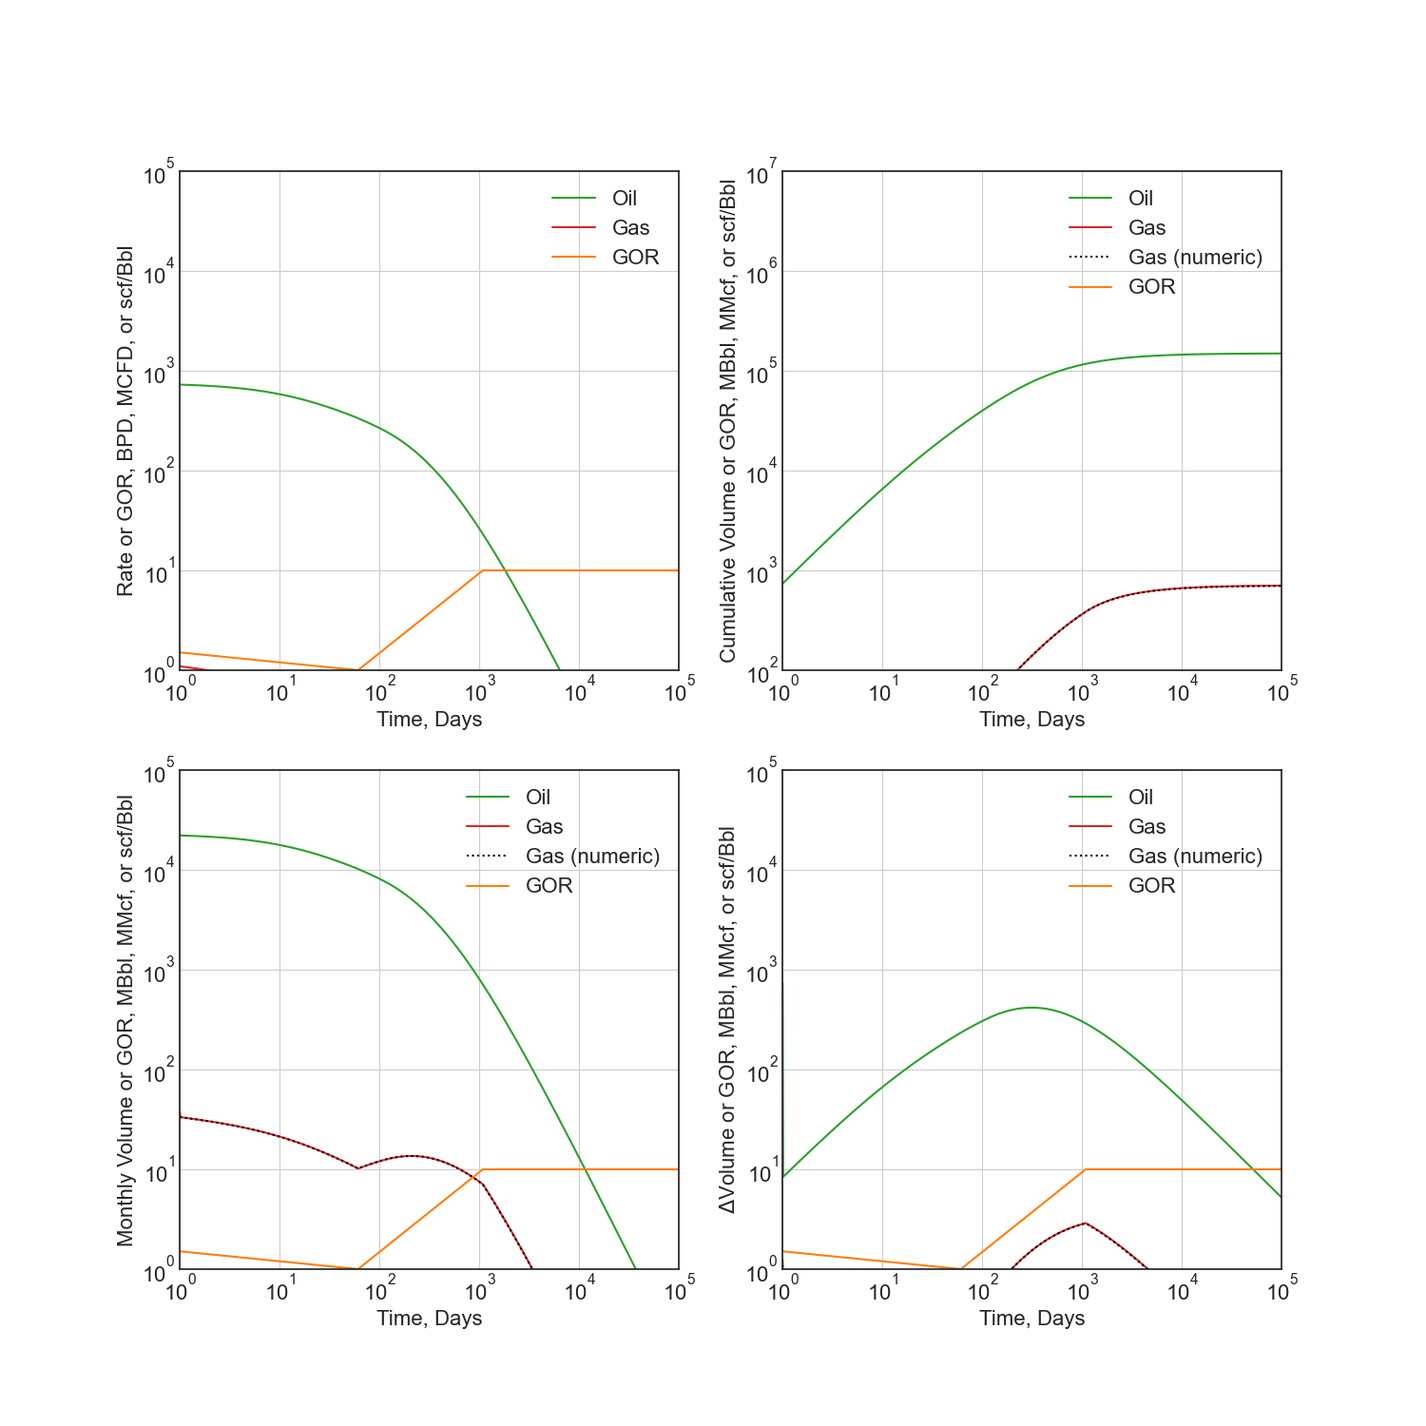
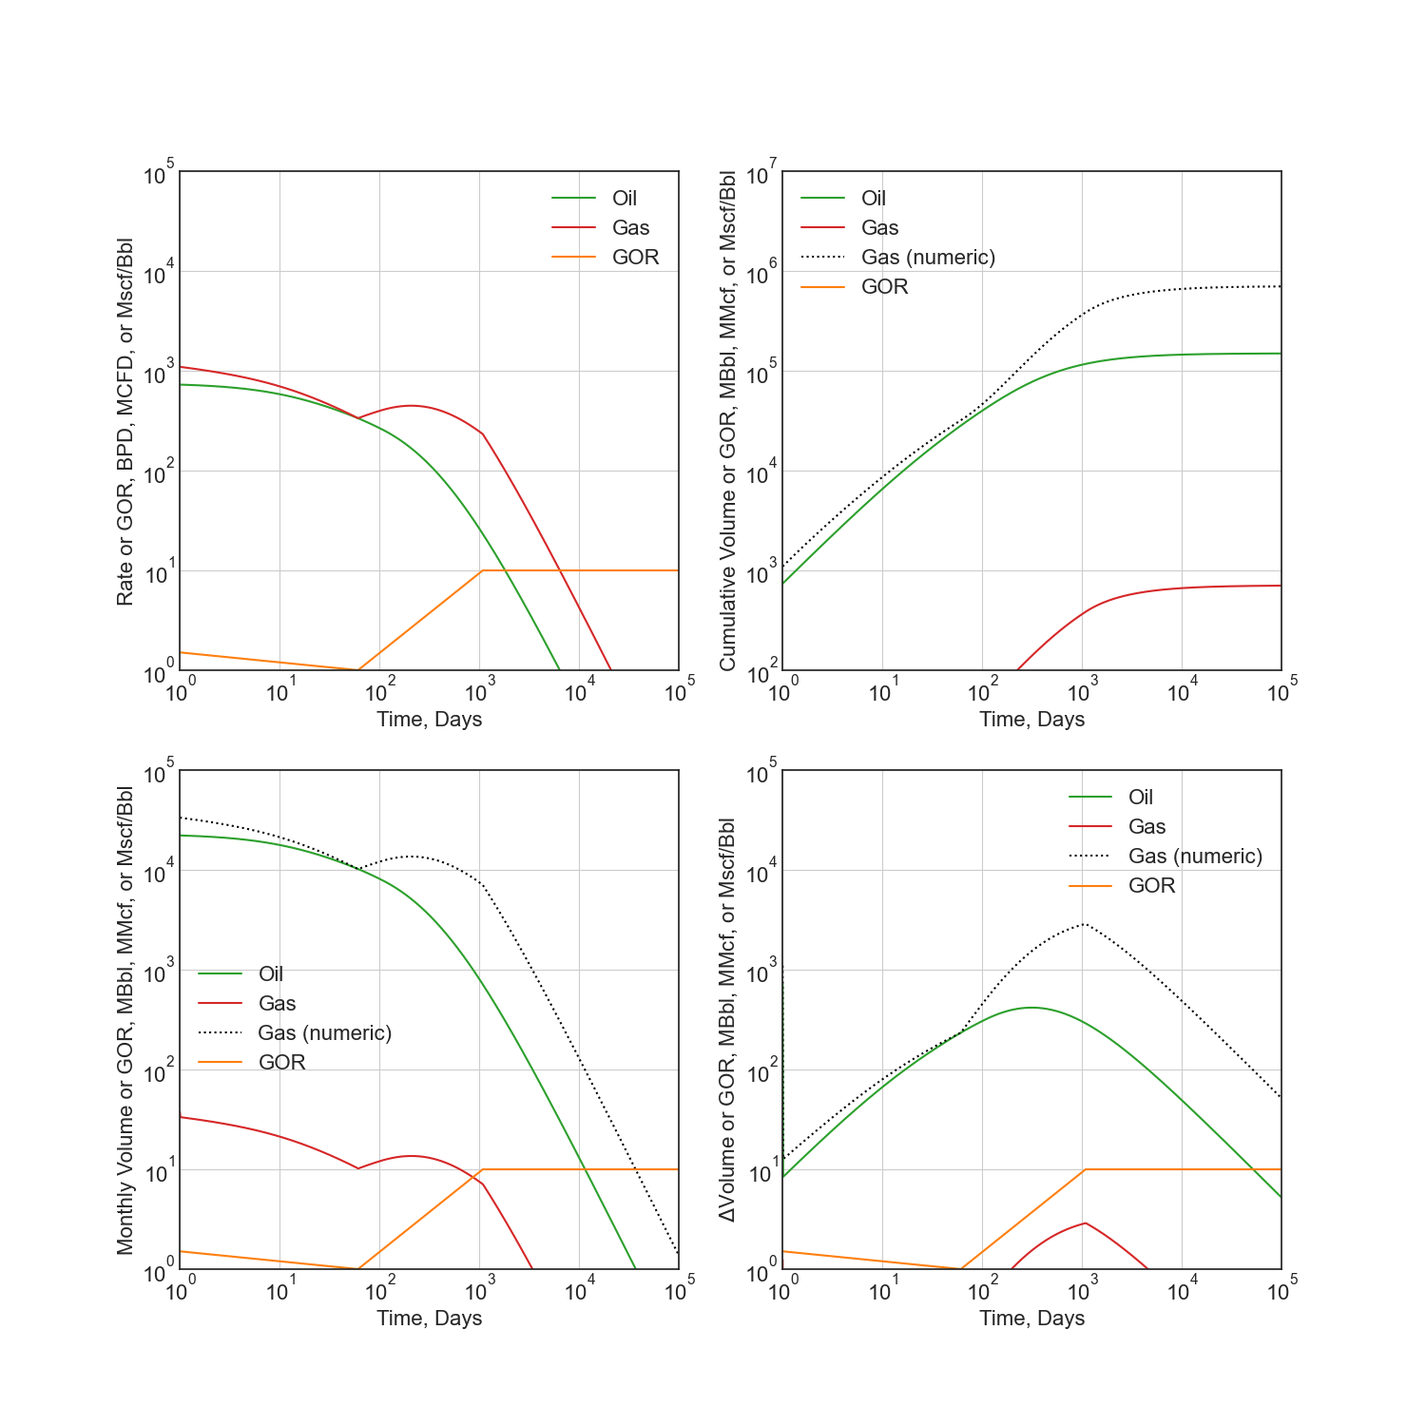
docs: fix the examples figure, the shift caveat, and stale plan references
Consistency-audit findings from the subagent pass.

docs/examples.rst and test/doc_examples.py still divided the secondary rate by
1000 after the c rescale to Mscf/Bbl, so the plotted quantity was MMscf/d under
an "MCFD" label and only 56 of 1001 points cleared the panel's y-floor -- the
Gas curve was missing from the published figure entirely. Removed the divisor
(864 of 1001 points now visible) and relabelled GOR as Mscf/Bbl on all four
panels. The /1000 on the volume panels is correct and stays: those are Mscf
under an MMcf label.

The design spec claimed its measured shift ratios "converge on
(t_1/(t_1+dt))**m0 = 0.911". The ratios themselves reproduce exactly
(0.95939, 0.92764, 0.92923), but they are shifted(t) vs original(t - dt) -- the
same physical instant -- and approach ~0.929. The 0.911 figure is the asymptote
of a different comparison, shifted(t) vs original(t), which is what someone
plotting both curves on one axis sees. Both are now stated separately. A
subagent reported the ratios themselves as unreproducible; they measured the
second comparison without saying so.

README's shift caveat gave (t0/(t0+dt))**m as the late-time change, which is
exact for PLYield but holds only within the first segment of a
GeneralizedPLYield, and not at all past a c override -- where the shift can move
late-time yield either way.

Also: the Phase 1 plan named GeneralizedPLYield._segment_from_tuple in six
[…]

diff --git a/test/doc_examples.py b/test/doc_examples.py
@@ -284,14 +284,14 @@ ax4 = fig.add_subplot(224)
 
 # Rate vs Time
 q = thm.rate(t)
-g = thm.secondary.rate(t) / 1000.0
+g = thm.secondary.rate(t)
 y = thm.secondary.gor(t)
 
 ax1.plot(t, q, c='C2', label='Oil')
 ax1.plot(t, g, c='C3', label='Gas')
 ax1.plot(t, y, c='C1', label='GOR')
 ax1.set(xscale='log', yscale='log', xlim=(1e0, 1e5), ylim=(1e0, 1e5))
-ax1.set(ylabel='Rate or GOR, BPD, MCFD, or scf/Bbl', xlabel='Time, Days')
+ax1.set(ylabel='Rate or GOR, BPD, MCFD, or Mscf/Bbl', xlabel='Time, Days')
 
 
 # Cumulative Volume vs Time
@@ -305,7 +305,7 @@ ax2.plot(t, _g_N, c='k', ls=':', label='Gas (numeric)')
 ax2.plot(t, y, c='C1', label='GOR')
 ax2.set(xscale='log', yscale='log', xlim=(1e0, 1e5), ylim=(1e2, 1e7))
 ax2.set(ylabel='Rate, Dimensionless', xlabel='Time, Days')
-ax2.set(ylabel='Cumulative Volume or GOR, MBbl, MMcf, or scf/Bbl', xlabel='Time, Days')
+ax2.set(ylabel='Cumulative Volume or GOR, MBbl, MMcf, or Mscf/Bbl', xlabel='Time, Days')
 
 
 # Time vs Monthly Volume
@@ -319,7 +319,7 @@ ax3.plot(t, g_MN, c='C3', label='Gas')
 ax3.plot(t, _g_MN, c='k', ls=':', label='Gas (numeric)')
 ax3.plot(t, y, c='C1', label='GOR')
 ax3.set(xscale='log', yscale='log', xlim=(1e0, 1e5), ylim=(1e0, 1e5))
-ax3.set(ylabel='Monthly Volume or GOR, MBbl, MMcf, or scf/Bbl', xlabel='Time, Days')
+ax3.set(ylabel='Monthly Volume or GOR, MBbl, MMcf, or Mscf/Bbl', xlabel='Time, Days')
 
 
 # Time vs Interval Volume
@@ -332,7 +332,7 @@ ax4.plot(t, g_IN, c='C3', label='Gas')
 ax4.plot(t, _g_IN, c='k', ls=':', label='Gas (numeric)')
 ax4.plot(t, y, c='C1', label='GOR')
 ax4.set(xscale='log', yscale='log', xlim=(1e0, 1e5), ylim=(1e0, 1e5))
-ax4.set(ylabel='$\Delta$Volume or GOR, MBbl, MMcf, or scf/Bbl', xlabel='Time, Days')
+ax4.set(ylabel='$\Delta$Volume or GOR, MBbl, MMcf, or Mscf/Bbl', xlabel='Time, Days')
 
 for ax in [ax1, ax2, ax3, ax4]:
     ax.set_aspect(1)
@@ -355,7 +355,7 @@ ax4 = fig.add_subplot(224)
 # D-parameter vs Time
 q_D = thm.D(t)
 g_D = thm.secondary.D(t)
-_g_D = -np.gradient(np.log(thm.secondary.rate(t) / 1000.0), t)
+_g_D = -np.gradient(np.log(thm.secondary.rate(t)), t)
 
 ax1.plot(t, q_D, c='C2', label='Oil')
 ax1.plot(t, g_D, c='C3', label='Gas')

diff --git a/test/test_dca.py b/test/test_dca.py
@@ -573,7 +573,11 @@ def test_terminal_exceeds() -> None:
     m=st.floats(-1.0, 1.0),
     t0=st.floats(1e-10, 365.25),
 )
-@settings(deadline=None)  # type: ignore
+# The two assume() calls below reject most draws, so hypothesis trips
+# filter_too_much on roughly 2 of 3 runs; suppress it as test_THM_terminal_exp
+# already does. deadline=None for the same reason as test_THM.
+@settings(deadline=None,
+          suppress_health_check=[hypothesis.HealthCheck.filter_too_much])  # type: ignore
 def test_yield(qi: float, Di: float, bf: float, telf: float, bterm: float, tterm: float,
                c: float, m0: float, m: float, t0: float) -> None:
     assume(tterm * dca.DAYS_PER_YEAR > telf)

diff --git a/docs/plans/2026-07-30-plyield-segment-plan.md b/docs/plans/2026-07-30-plyield-segment-plan.md
@@ -10,6 +10,25 @@
 
 **Design spec:** `docs/plans/2026-07-30-generalized-segments-design.md` — Phase 1 of three.
 
+> **Status: implemented** on `feat/generalized-plyield`. The unchecked `- [ ]` boxes below are
+> the historical build script, not outstanding work. Delivered differently from the plan in
+> four places, all after post-implementation review:
+>
+> 1. The tuple builder is `PLYieldSegment.from_tuple` (a public classmethod on the segment
+>    type), not `GeneralizedPLYield._segment_from_tuple`. `/code-refactor` moved it so the
+>    target class owns its own construction, and it is the shape `HyperbolicSegment` will
+>    follow.
+> 2. `shift` is declared abstract on `MultisegmentPLYield`, so re-anchoring is a contract of
+>    every multisegment yield model rather than two classes sharing a method name. It also
+>    calls `AssociatedPhase._adopt_attachment`, without which `dc.replace` silently rebinds
+>    the copy to a `NullPrimaryPhase` and `rate`/`cum` return `0.0`.
+> 3. The `nan` for `t < 0` is applied in `_mfn` and `_Nfn` as well as `_yieldfn`. Without
+>    those two, `cum` returned `0.0` and `D`/`beta`/`b` returned definite values on a domain
+>    where the model is undefined.
+> 4. `validate_params` defaults are tuples, not lists — a list default makes a frozen
+>    dataclass unhashable — and the `segments` `naive_gen` emits `(n, 2)` `[t, m]` rather than
+>    `(n, 3)`, because a generated `c` on row 0 is rejected outright.
+
 ## Global Constraints
 
 - Max line length 100 (`ruff`). Max complexity 20.
@@ -29,7 +48,7 @@
 
 | File | Change |
 |---|---|
-| `petbox/dca/associated.py` | Add `PLYieldSegment`; rewrite `GeneralizedPLYield._segment_arrays`, `_validate`, `_segments`, `get_param_descs`; add `from_segments` + `_segment_from_tuple` |
+| `petbox/dca/associated.py` | Add `PLYieldSegment`; rewrite `GeneralizedPLYield._segment_arrays`, `_validate`, `_segments`, `get_param_descs`; add `from_segments` + `from_tuple` |
 | `petbox/dca/__init__.py` | Export `PLYieldSegment` |
 | `test/test_dca.py` | Migrate every `GeneralizedPLYield` test to the new API; add builder, override, and inheritance tests |
 | `test/test_perf.py` | Migrate the one `GeneralizedPLYield` construction |
@@ -53,7 +72,7 @@ and the negative-`t` `nan`, and Task 4 documents all of it.
   exported as `dca.PLYieldSegment`. Optional fields are **keyword-only**.
 - Produces `GeneralizedPLYield.from_segments(c, m0, segments, min=None, max=None)` accepting
   `(t, m)` and `(t, c, m)` tuples, and the private
-  `GeneralizedPLYield._segment_from_tuple(spec) -> PLYieldSegment`.
+  `PLYieldSegment.from_tuple(spec) -> PLYieldSegment`.
 - Changes `GeneralizedPLYield._segment_arrays()` from a 2-tuple to a 3-tuple return:
   `(breakpoint_times, slopes, overrides)`, where `overrides` holds `nan` for absent.
 - Phase 2 (`GeneralizedHyperbolic`) mirrors this protocol but shares no code with it.
@@ -246,7 +265,7 @@ Then replace `_segment_arrays`, `_validate` and the head of `_segments`:
 
 ```python
     @staticmethod
-    def _segment_from_tuple(spec: Sequence[Optional[float]]) -> PLYieldSegment:
+    def from_tuple(spec: Sequence[Optional[float]]) -> PLYieldSegment:
         """
         Normalize one loose tuple. Arity selects the meaning: ``(t, m)`` inherits the
         yield value, ``(t, c, m)`` sets it. An explicit ``None`` inherits exactly as a
@@ -271,7 +290,7 @@ Then replace `_segment_arrays`, `_validate` and the head of `_segments`:
         """
         Construct from plain tuples instead of :class:`PLYieldSegment` instances.
 
-        Each entry is ``(t, m)`` or ``(t, c, m)``; see :meth:`_segment_from_tuple`. The
+        Each entry is ``(t, m)`` or ``(t, c, m)``; see :meth:`from_tuple`. The
         constructor itself accepts only :class:`PLYieldSegment`, which keeps the field
         type free of unions -- this is the loose-tuple entry point.
 
@@ -296,7 +315,7 @@ Then replace `_segment_arrays`, `_validate` and the head of `_segments`:
         -------
             yield model: :class:`GeneralizedPLYield`
         """
-        return cls(c, m0, tuple(cls._segment_from_tuple(s) for s in segments), min, max)
+        return cls(c, m0, tuple(PLYieldSegment.from_tuple(spec) for spec in segments), min, max)
 
     def _segment_arrays(self) -> Tuple[NDFloat, NDFloat, NDFloat]:
         """
@@ -990,6 +1009,6 @@ says why transcribing them unchecked is unsafe.
 definition (Step 4) and is unpacked as three values at both call sites, `_validate`
 (discarding the third as `_`) and `_segments`. `PLYieldSegment` is constructed with
 keyword arguments everywhere, including in the migrated tests. `from_segments`' `segments`
-parameter is `Iterable[Sequence[Optional[float]]]`, matching what `_segment_from_tuple`
+parameter is `Iterable[Sequence[Optional[float]]]`, matching what `from_tuple`
 consumes. `SLOPE_BOUND` is read from `MultisegmentPLYield` in both the validation and the
 `naive_gen`, never restated as a literal.

diff --git a/docs/plans/2026-07-30-generalized-segments-design.md b/docs/plans/2026-07-30-generalized-segments-design.md
@@ -1,7 +1,8 @@
 # Generalized Segments — Design
 
 **Date:** 2026-07-30
-**Status:** Approved. Phase 1 plan written (`2026-07-30-plyield-segment-plan.md`); Phases 2-4 not yet planned
+**Status:** Approved. **Phase 1 is implemented** on `feat/generalized-plyield` (see
+`2026-07-30-plyield-segment-plan.md`); Phases 2-4 are designed but not yet planned
 **Target version:** 2.2.0 (unreleased — see "Why this is not a breaking change")
 
 ## Goal
@@ -22,6 +23,7 @@ taking an arbitrary user-specified segment sequence, mirroring `GeneralizedPLYie
 | `MultisegmentHyperbolic.time_at_rate` | method | inverts the rate function; subsumes the pole as `time_at_rate(inf)` |
 | sign-agnostic guards | modified | magnitude tests in the shared Arps math, enabling a future `IncliningHyperbolic` |
 | `PLYield.shift` / `GeneralizedPLYield.shift` | method | re-anchor a yield fit made against the wrong first-production date |
+| `nan` for yield at `t < 0` | modified | a power law is not real-valued before its origin; `shift` is the supported alternative |
 
 `HyperbolicSegment` and `GeneralizedHyperbolic` live in `petbox/dca/primary.py`;
 `PLYieldSegment` stays with its model in `petbox/dca/associated.py`.
@@ -375,13 +377,15 @@ One spec, four implementation phases. `PLYield` goes first: it is smaller, and i
 the protocol before the harder model depends on it.
 
 1. **`PLYieldSegment` + retrofit** — segment type, builder, `c` override, first-segment
-   conflict, validation, tests, docs.
+   conflict, validation, `shift(dt)`, `nan` for `t < 0`, tests, docs. **Implemented.**
 2. **`HyperbolicSegment` + `GeneralizedHyperbolic`** — `_fill_segment_chain` extraction with
    THM bit-for-bit verification, the new model, terminal derivation, tests, docs.
 3. **`time_at_rate(q)` on `MultisegmentHyperbolic`** — the segment-bracketing rate inversion
    above, plus the sign-agnostic guard conversion it depends on for inclining models.
    Independent of the segment protocol, so it can land before or after Phase 2, but it needs
-   the guard fix and the `-inf` row-0 change to be useful at negative time.
+   the guard fix and the `_vectorize` mask change to be useful at negative time. (Not a
+   `-inf` row-0 change: that is the yield-side fix, which this document establishes above
+   does **not** transplant to `MultisegmentHyperbolic`.)
 
 4. **`docs/examples.rst`** — one worked section covering both generalized models with a
    figure, closing the gap deferred from the `GeneralizedPLYield` work. The code in
@@ -532,7 +536,7 @@ def shift(self, dt: float) -> 'GeneralizedPLYield':
     """
 ```
 
-Verified on `GeneralizedPLYield(c=1.2, m0=0.6, segments=((180, 0.6), (1095, -0.2)))` with
+Verified on `GeneralizedPLYield(c=1.2, m0=0.6, segments=(PLYieldSegment(180.0, m=0.6), PLYieldSegment(1095.0, m=-0.2)))` with
 `dt = 30.4`:
 
 | true `t` | 0 | 1 | 15 | 30.4 |
@@ -544,12 +548,20 @@ The shifted model is real-valued and monotonic where the original was not define
 anchor observation is preserved: the original gives `gor(180) = 1.2` and the shifted gives
 `gor(210.4) = 1.2`.
 
-**It is not lossless, and that is the point.** Late-time yield falls 7-9% — measured ratios
-`0.959`, `0.928`, `0.929` at 365, 1000 and 3650 days, converging on
-`(t_1/(t_1 + dt)) ** m0 = 0.911`. The power law's origin has moved to true first production,
-which is what "time since first production" means, so the shifted model is the more correct
-one; the original parameters were biased by the wrong axis. A rigorous correction is a re-fit,
-and the docstring must say so rather than implying the shift recovers the true parameters.
+**It is not lossless, and that is the point.** Comparing the same *physical instant* —
+`shifted(t)` against `original(t - dt)` — late-time yield falls 7-9%: measured ratios
+`0.95939`, `0.92764`, `0.92923` at 365, 1000 and 3650 days, approaching ~`0.929`.
+
+Note which comparison that is. Against the same *nominal* `t` — `shifted(t)` over
+`original(t)`, which is what a reader plotting both curves on one axis sees — the ratio is
+exactly `(t_1/(t_1 + dt)) ** m0 = 0.911` throughout the first segment, then moves away in
+later ones. An earlier revision quoted the first set of ratios and the second set's asymptote
+in one sentence, which is why they did not agree.
+
+The power law's origin has moved to true first production, which is what "time since first
+production" means, so the shifted model is the more correct one; the original parameters were
+biased by the wrong axis. A rigorous correction is a re-fit, and the docstring must say so
+rather than implying the shift recovers the true parameters.
 
 **Yield only.** The yield anchor is an interior point `(t_1, c)`, so shifting is pure
 reparameterization. A hyperbolic model pins `qi` at `t = 0`, so shifting it later requires

diff --git a/docs/examples.rst b/docs/examples.rst
@@ -300,14 +300,14 @@ Numeric calculation provided to verify analytic relationships
 
     # Rate vs Time
     q = thm.rate(t)
-    g = thm.secondary.rate(t) / 1000.0
+    g = thm.secondary.rate(t)
     y = thm.secondary.gor(t)
 
     ax1.plot(t, q, c='C2', label='Oil')
     ax1.plot(t, g, c='C3', label='Gas')
     ax1.plot(t, y, c='C1', label='GOR')
     ax1.set(xscale='log', yscale='log', xlim=(1e0, 1e5), ylim=(1e0, 1e5))
-    ax1.set(ylabel='Rate or GOR, BPD, MCFD, or scf/Bbl', xlabel='Time, Days')
+    ax1.set(ylabel='Rate or GOR, BPD, MCFD, or Mscf/Bbl', xlabel='Time, Days')
 
 
     # Cumulative Volume vs Time
@@ -321,7 +321,7 @@ Numeric calculation provided to verify analytic relationships
     ax2.plot(t, y, c='C1', label='GOR')
     ax2.set(xscale='log', yscale='log', xlim=(1e0, 1e5), ylim=(1e2, 1e7))
     ax2.set(ylabel='Rate, Dimensionless', xlabel='Time, Days')
-    ax2.set(ylabel='Cumulative Volume or GOR, MBbl, MMcf, or scf/Bbl', xlabel='Time, Days')
+    ax2.set(ylabel='Cumulative Volume or GOR, MBbl, MMcf, or Mscf/Bbl', xlabel='Time, Days')
 
 
     # Time vs Monthly Volume
@@ -335,7 +335,7 @@ Numeric calculation provided to verify analytic relationships
     ax3.plot(t, _g_MN, c='k', ls=':', label='Gas (numeric)')
     ax3.plot(t, y, c='C1', label='GOR')
     ax3.set(xscale='log', yscale='log', xlim=(1e0, 1e5), ylim=(1e0, 1e5))
-    ax3.set(ylabel='Monthly Volume or GOR, MBbl, MMcf, or scf/Bbl', xlabel='Time, Days')
+    ax3.set(ylabel='Monthly Volume or GOR, MBbl, MMcf, or Mscf/Bbl', xlabel='Time, Days')
 
 
     # Time vs Interval Volume
@@ -348,7 +348,7 @@ Numeric calculation provided to verify analytic relationships
     ax4.plot(t, _g_IN, c='k', ls=':', label='Gas (numeric)')
     ax4.plot(t, y, c='C1', label='GOR')
     ax4.set(xscale='log', yscale='log', xlim=(1e0, 1e5), ylim=(1e0, 1e5))
-    ax4.set(ylabel='$\Delta$Volume or GOR, MBbl, MMcf, or scf/Bbl', xlabel='Time, Days')
+    ax4.set(ylabel='$\Delta$Volume or GOR, MBbl, MMcf, or Mscf/Bbl', xlabel='Time, Days')
 
     for ax in [ax1, ax2, ax3, ax4]:
         ax.set_aspect(1)
@@ -375,7 +375,7 @@ Diagnostic Function Plots
     # D-parameter vs Time
     q_D = thm.D(t)
     g_D = thm.secondary.D(t)
-    _g_D = -np.gradient(np.log(thm.secondary.rate(t) / 1000.0), t)
+    _g_D = -np.gradient(np.log(thm.secondary.rate(t)), t)
 
     ax1.plot(t, q_D, c='C2', label='Oil')
     ax1.plot(t, g_D, c='C3', label='Gas')

diff --git a/docs/versions.rst b/docs/versions.rst
@@ -45,7 +45,8 @@ Version History
     * A power law is not real-valued there: ``(-30.4/180) ** 0.6`` is
       ``-0.106 + 0.327j``. The previous implementation floored the negative time ratio at
       ``MIN_EPSILON``, which produced a constant identical for every negative ``t`` that
-      flipped between ``3.07e-185`` and ``4.69e+184`` with the sign of ``m`` --- an artifact
+      flipped between ``3.07e-185`` and ``4.69e+184`` with the sign of ``m`` (for ``c=1.2``;
+      the constant scales linearly with ``c``) --- an artifact
       of the floor carrying no information about ``t``. ``t == 0`` keeps its ``0.0``
       convention and ``t > 0`` is unchanged. Use ``shift()`` to model the period before the
       anchor.
@@ -54,7 +55,7 @@ Version History
     * All power-law yield math moved to a new ``MultisegmentPLYield`` base class, which
       caches per-segment anchor conditions and gathers them with ``searchsorted``.
       ``PLYield`` is now a subclass and supplies only its two segments; its results are
-      bit-for-bit unchanged.
+      bit-for-bit unchanged **for** ``t >= 0`` (see the ``nan`` change above for ``t < 0``).
 
 * **Breaking:** ``PLYield`` now validates all six of its parameters
     * Previously only ``c`` was bound-checked. ``DeclineCurve.validate_params`` defaults
@@ -95,7 +96,7 @@ Version History
       (``test/doc_examples.py``, ``docs/bourdet_validation.py``,
       ``docs/integration_validation.py``).
     * Fixed two malformed grid tables in ``docs/numerical_integration.rst`` whose rows were
-      2 and 1 characters narrower than their borders. One raised a docutils ``ERROR`` and
+      1 and 2 characters narrower than their borders, in document order. One raised a docutils ``ERROR`` and
       failed to render as a table; the Sphinx build is now warning-free.
 
 

diff --git a/README.rst b/README.rst
@@ -160,9 +160,11 @@ rather than requiring evaluation at negative time, where a power law is not real
 
     >>> corrected = mh.secondary.shift(30.4)   # true first prod was 30.4 days earlier
 
-This moves the power law's origin, so it is a re-anchoring and not a lossless transform —
-late-time yield shifts by roughly ``(t0 / (t0 + dt)) ** m``. A rigorous correction is a
-re-fit.
+This moves the power law's origin, so it is a re-anchoring and not a lossless transform. For
+``PLYield`` the change in late-time yield is exactly ``(t0 / (t0 + dt)) ** m``. For
+``GeneralizedPLYield`` that holds only within the first segment: later segments re-anchor, and
+a segment that overrides ``c`` re-pins the value outright, so the shift can move late-time
+yield either way. A rigorous correction is a re-fit.
 
 
 Once instantiated, the same functions and process for attaching a secondary phase work for any model.

diff --git a/docs/plans/2026-07-29-generalized-plyield-plan.md b/docs/plans/2026-07-29-generalized-plyield-plan.md
@@ -12,8 +12,13 @@
 
 > **Superseded before release:** `GeneralizedPLYield.segments` takes `PLYieldSegment`
 > instances, not `(t, m)` tuples, and a segment may override `c` to step the yield. See
-> `docs/plans/2026-07-30-generalized-segments-design.md`. Everything else in this
-> document still describes the shipped code.
+> `docs/plans/2026-07-30-generalized-segments-design.md`.
+>
+> Two further behaviours changed after this document was written, so its `t < 0`
+> discussion is also stale: the yield models now return `nan` for `t < 0` rather than
+> the `MIN_EPSILON`-floored constant described here, and the first `segment_params` row
+> starts at `-inf` rather than `0.0`. The conclusions still hold; the premises do not.
+> Everything outside those topics still describes the shipped code.
 
 ## Global Constraints
 

diff --git a/docs/plans/2026-07-29-generalized-plyield-design.md b/docs/plans/2026-07-29-generalized-plyield-design.md
@@ -6,8 +6,13 @@
 
 > **Superseded before release:** `GeneralizedPLYield.segments` takes `PLYieldSegment`
 > instances, not `(t, m)` tuples, and a segment may override `c` to step the yield. See
-> `docs/plans/2026-07-30-generalized-segments-design.md`. Everything else in this
-> document still describes the shipped code.
+> `docs/plans/2026-07-30-generalized-segments-design.md`.
+>
+> Two further behaviours changed after this document was written, so its `t < 0`
+> discussion is also stale: the yield models now return `nan` for `t < 0` rather than
+> the `MIN_EPSILON`-floored constant described here, and the first `segment_params` row
+> starts at `-inf` rather than `0.0`. The conclusions still hold; the premises do not.
+> Everything outside those topics still describes the shipped code.
 
 ## Goal
 

diff --git a/docs/api.rst b/docs/api.rst
@@ -284,6 +284,8 @@ Implementations of associated (secondary and water) phase GOR/CGR/WOR/WGR models
 
 .. autoclass:: PLYieldSegment
 
+    .. automethod:: from_tuple
+
 
 Utility Functions
 -----------------
